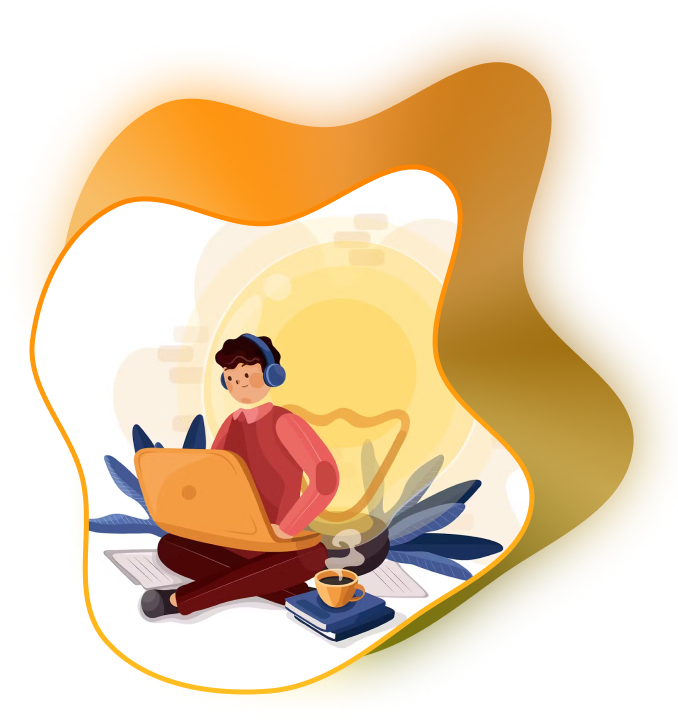
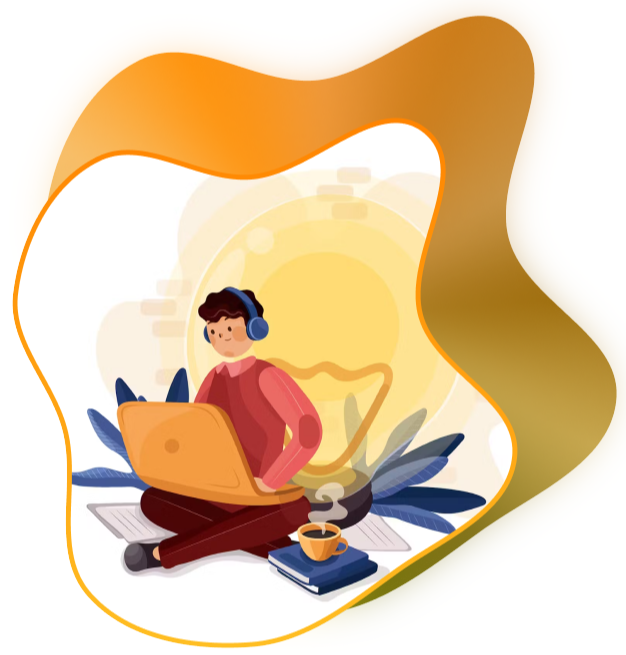
refactor: make layout for hero section better

Changed region(s): [[0.0, 0.0, 1.0, 1.0]]

diff --git a/src/app/page.tsx b/src/app/page.tsx
@@ -33,6 +33,9 @@ export default function Home() {
   };
 
   useEffect(() => {
+
+    console.log(localStorage);
+
     const checkAuth = () => {
       const userJson = localStorage.getItem("user");
       const token = localStorage.getItem("token");
@@ -80,24 +83,27 @@ export default function Home() {
       {!isLogin ? (
         <>
           <div className="lg:bg-[url('/Home/bgImg.svg')] bg-[url('/Home/bgImgMobile.svg')] bg-cover bg-center min-h-screen outline outline-3 outline-yellow-500">
-            <div className="md:px-28 px-3 flex flex-col-reverse md:flex-row items-center min-h-screen justify-between gap-x-60">
-              <div className="grid-cols-1 gap-10 grid mb-32 md:mb-0">
-                <div>
+            <div className="items-center min-h-screen justify-between gap-x-9 flex mx-[3%] md:mx-[13%] lg:mx-[7.5%]">
+              <div className="grid-cols-1 gap-10 grid md:mb-0 w-full">
+                <div className="w-full flex flex-col items-start">
                   <h1 className="title">Learn</h1>
                   <h1 className="title translate-x-7">Write</h1>
                   <h1 className="title translate-x-16">Share</h1>
                 </div>
-                <p className="max-w-[500px] translate-x-7 font-medium text-2xl">
-                  Share your wonderful stories and read amazing adventures of
-                  others.
-                </p>
+                <div className="flex ">
+                  <p className="translate-x-5 max-w-[250px] md:max-w-[400px] font-semibold   text-base md:text-xl leading-4 lg:text-xl">
+                    Share your wonderful stories and read amazing adventures of
+                    others.
+                  </p>
+                </div>
+
                 <Link href="/login">
-                  <button className="btnstart md:translate-x-0 translate-x-7 hover:scale-110 transition-transform ease-in-out duration-5000 text-white py-2 px-3.5 text-3xl hover:bg-[#9a4824] bg-[#3B1708] transform">
+                  <button className="btnstart hover:scale-110 transition-transform ease-in-out duration-5000 text-white py-2 px-3.5 text-xl md:text-2xl hover:bg-[#9a4824] bg-[#3B1708] transform">
                     Start Sharing
                   </button>
                 </Link>
               </div>
-              <div className="">
+              <div className="hidden md:block">
                 <Image
                   src="/Home/sun.svg"
                   alt="A sun"
@@ -108,8 +114,8 @@ export default function Home() {
                 <img
                   src="/Home/Dude.png"
                   alt="A person reading a book"
-                  width={500}
-                  height={500}
+                  width={800}
+                  height={800}
                   className="hidden lg:block"
                 />
                 <Image
@@ -130,9 +136,7 @@ export default function Home() {
             <div className="gap-12 px-5 md:px-28 pt-28 pb-12 md:grid-cols-1 grid-cols-1 grid lg:grid-cols-2 grid-flow-row">
               {posts.map((post) => (
                 <div key={post.post_id}>
-                  
                   <CardLog post={post} />
-
                 </div>
               ))}
             </div>
